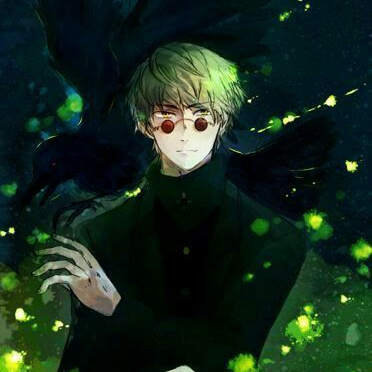
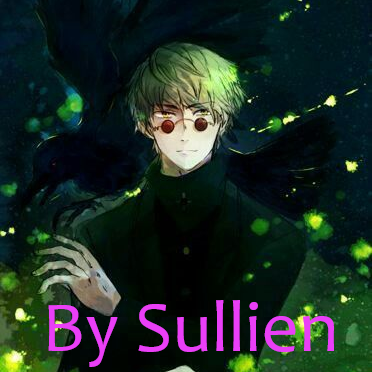
Further authorship crediting.
Changes to be committed:
	modified:   README.md
	modified:   preview.png

Changed region(s): [[0.3548, 0.7984, 0.9167, 0.9462], [0.1183, 0.7984, 0.3253, 1.0]]

diff --git a/README.md b/README.md
@@ -1,3 +1,7 @@
+<p align="center">
+  <img width="188" height="188" src="https://github.com/denismattos/Future-Expansion-Continued/blob/master/preview.png?raw=true">
+</p>
+
 # Future Expansion – Continued
 A continuation of Sullien's [<img src="https://i.imgur.com/qdtKSSq.png">](https://github.com/Sullien) great – and, now, defunct – [Future Expansion](https://github.com/Sullien/Future-Expansion) for [Unciv](https://github.com/yairm210/Unciv).
 
